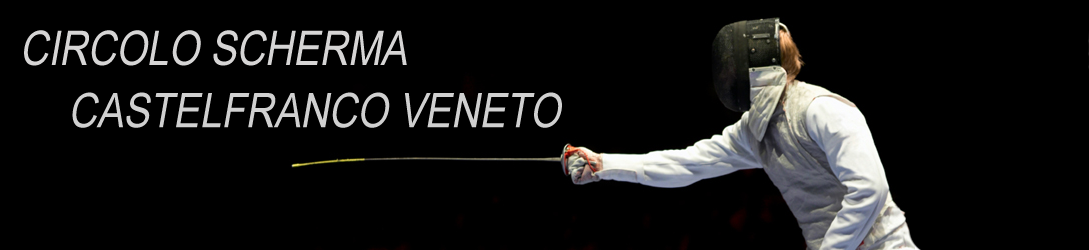
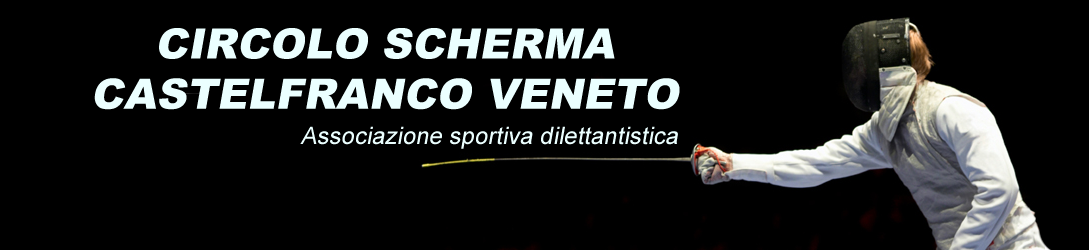
Header generale e pagina errore

diff --git a/schermacastelfrancoveneto/public_html/js/script.js b/schermacastelfrancoveneto/public_html/js/script.js
@@ -176,39 +176,43 @@ function checkInserimentoArticolo(){
 	var datepicker = document.inserisciArticoloForm.datepicker.value;
 	var titolo = document.inserisciArticoloForm.titolo.value;
 	var testo = document.inserisciArticoloForm.testo.value;
+	var foto = document.inserisciArticoloForm.foto.value;
 	var altfoto = document.inserisciArticoloForm.altfoto.value;
 	var lok = true;
 	var dok = true;
 	var tok = true;
 	var teok = true;
+	var fok = true;
 	var aok = true;
 
 	document.getElementById('errors').innerHTML = " ";
 
 	if ((luogo == "") || (luogo == "undefined")){
-			document.getElementById('errors').innerHTML += '<br /> (!) Luogo non valido';
+			document.getElementById('errors').innerHTML += '<p> (!) Luogo non valido</p>';
 			lok=false;
 		}
 
 	if ((datepicker == "") || (datepicker == "undefined")){
-			document.getElementById('errors').innerHTML += '<br /> (!) Data non valida';
+			document.getElementById('errors').innerHTML += '<p> (!) Data non valida</p>';
 			dok=false;
 		}
 
 	if ((titolo == "") || (titolo == "undefined")){
-			document.getElementById('errors').innerHTML += '<br /> (!) Titolo non valido';
+			document.getElementById('errors').innerHTML += '<p> (!) Titolo non valido</p>';
 			tok=false;
 		}
 
 	if ((testo == "") || (testo == "undefined")){
-			document.getElementById('errors').innerHTML += '<br /> (!) Testo non valido';
+			document.getElementById('errors').innerHTML += '<p> (!) Testo non valido</p>';
 			teok=false;
 		}
 
-	if ((altfoto == "") || (altfoto == "undefined")){
-			document.getElementById('errors').innerHTML += '<br /> (!) Descrizione fotografia non valida';
+	if(foto){
+		if ((altfoto == "") || (altfoto == "undefined")){
+			document.getElementById('errors').innerHTML += '<p> (!) Descrizione fotografia non valida</p>';
 			aok=false;
 		}
+	}
 
 	return (lok && dok && tok && teok && aok);
 }
@@ -222,12 +226,12 @@ function checkInserimentoDocumento(){
 	document.getElementById('errors').innerHTML = " ";
 
 	if ((titolo == "") || (titolo == "undefined")){
-			document.getElementById('errors').innerHTML += '<br /> (!) Titolo non valido';
+			document.getElementById('errors').innerHTML += '<p> (!) Titolo non valido</p>';
 			tok=false;
 		}
 
 	if ((testo == "") || (testo == "undefined")){
-			document.getElementById('errors').innerHTML += '<br /> (!) Testo non valido';
+			document.getElementById('errors').innerHTML += '<p> (!) Testo non valido</p>';
 			teok=false;
 		}
 
@@ -303,6 +307,8 @@ $(function() {
 
 
 /* FINE */
+
+
 
 
 

diff --git a/schermacastelfrancoveneto/public_html/errore.html b/schermacastelfrancoveneto/public_html/errore.html
@@ -51,17 +51,13 @@
 				<h1>
 					OOPS si è verificato un errore!
 				</h1>
-				<h3>
-					<br />
-					La pagina cercata non è al momento disponibile.<br />Nel sito web si potrebbero essere verificati degli errori o
-					potrebbe essere necessario cambiare le impostazioni del browser.
-					<br /> <br />
-					Se non riesci ad accedere alla risorsa che stavi cercando ti preghiamo di inviare un'email all'<a href="mailto:admin@schermacastelfranco.com">amministratore</a>, che provvederà quanto prima a risolvere il problema.
-				</h3>
-				<br />
-				<h3>
-					Ci scusiamo per il disagio.<br />La dirigenza
-				</h3>
+				<h2>
+					<p>La pagina cercata non è al momento disponibile.<p/>
+					<p>Nel sito web si potrebbero essere verificati degli errori o
+					potrebbe essere necessario cambiare le impostazioni del browser.</p>
+					<p>Se non riesci ad accedere alla risorsa che stavi cercando ti preghiamo di inviare un'email all'<a href="mailto:admin@schermacastelfranco.com">amministratore</a>, che provvederà quanto prima a risolvere il problema.</p>
+					<p>Ci scusiamo per il disagio. La dirigenza</p>
+				</h2>
 			</div>
 		</div>
 
